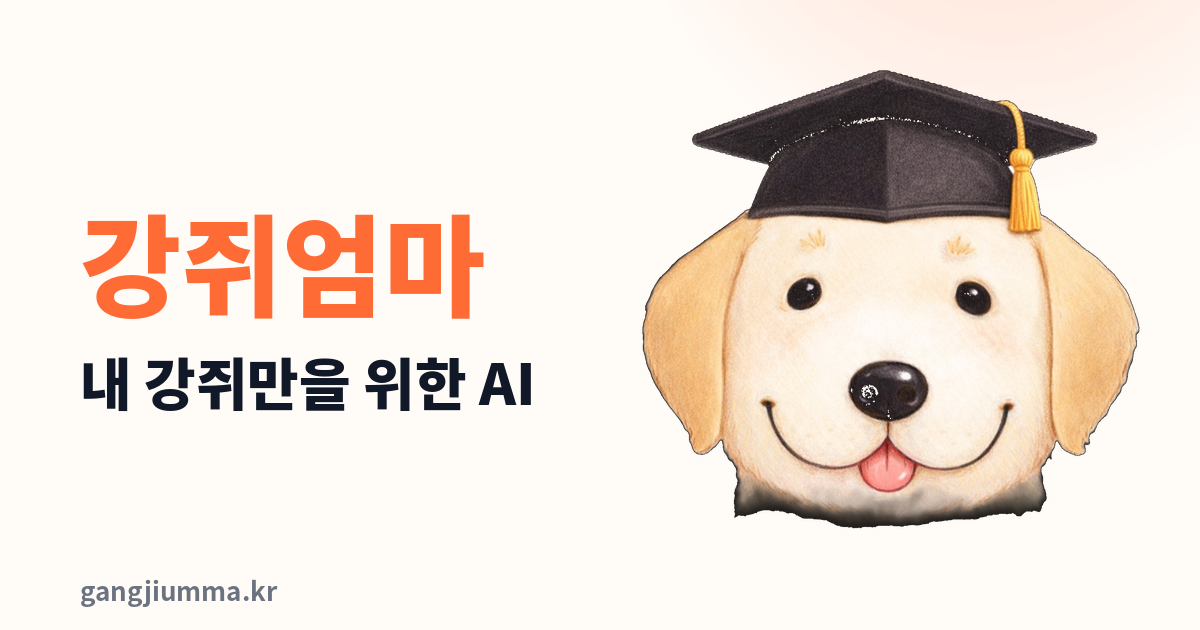
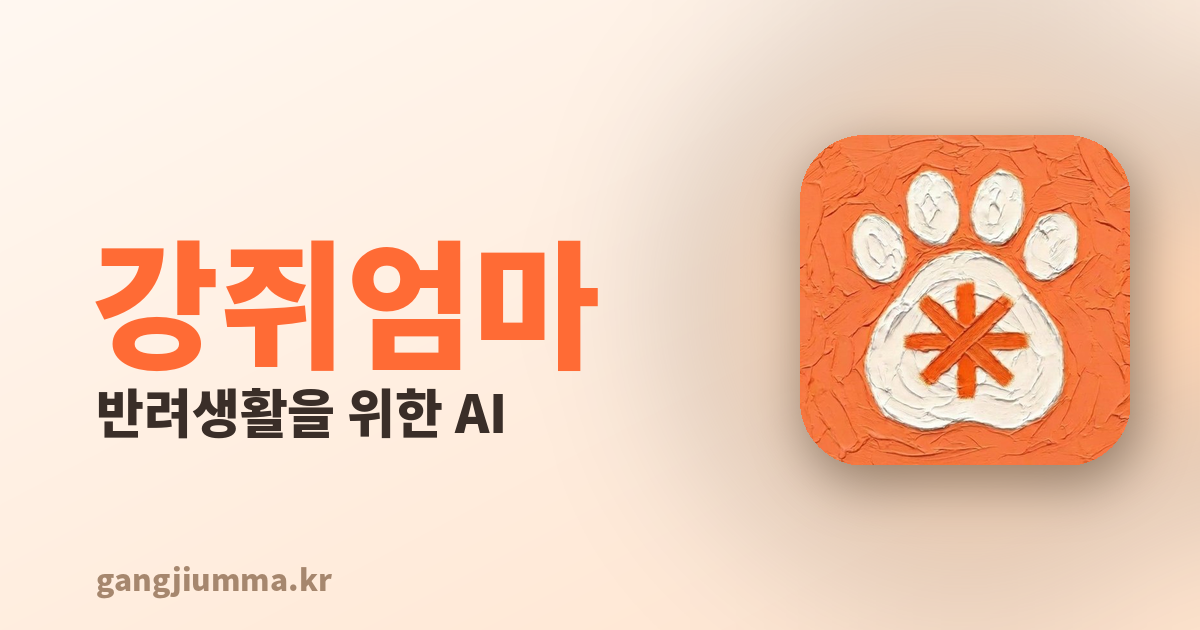
feat: OG 이미지 새 버전(paw 로고 + 반려생활을 위한 AI)

diff --git a/src/app/layout.tsx b/src/app/layout.tsx
@@ -10,7 +10,7 @@ export const metadata: Metadata = {
     template: "%s | 강쥐엄마",
   },
   description:
-    "우리 강쥐에 대해 스스로 학습하고, 가장 잘아는 AI",
+    "우리 강아지에 대해 학습하고, 가장 가치 있는 반려생활로 안내해주는 AI",
   keywords: [
     "강쥐엄마",
     "반려견 앱",
@@ -20,9 +20,9 @@ export const metadata: Metadata = {
     "펫 마케팅",
   ],
   openGraph: {
-    title: "강쥐엄마 — 반려견 AI 비서",
+    title: "강쥐엄마 — 반려견 전용 AI",
     description:
-      "우리 아이를 가장 잘 아는 반려견 전용 AI",
+      "우리 강아지에 대해 학습하고, 가장 가치 있는 반려생활로 안내해주는 AI",
     url: "https://gangjiumma.kr",
     siteName: "강쥐엄마",
     locale: "ko_KR",
